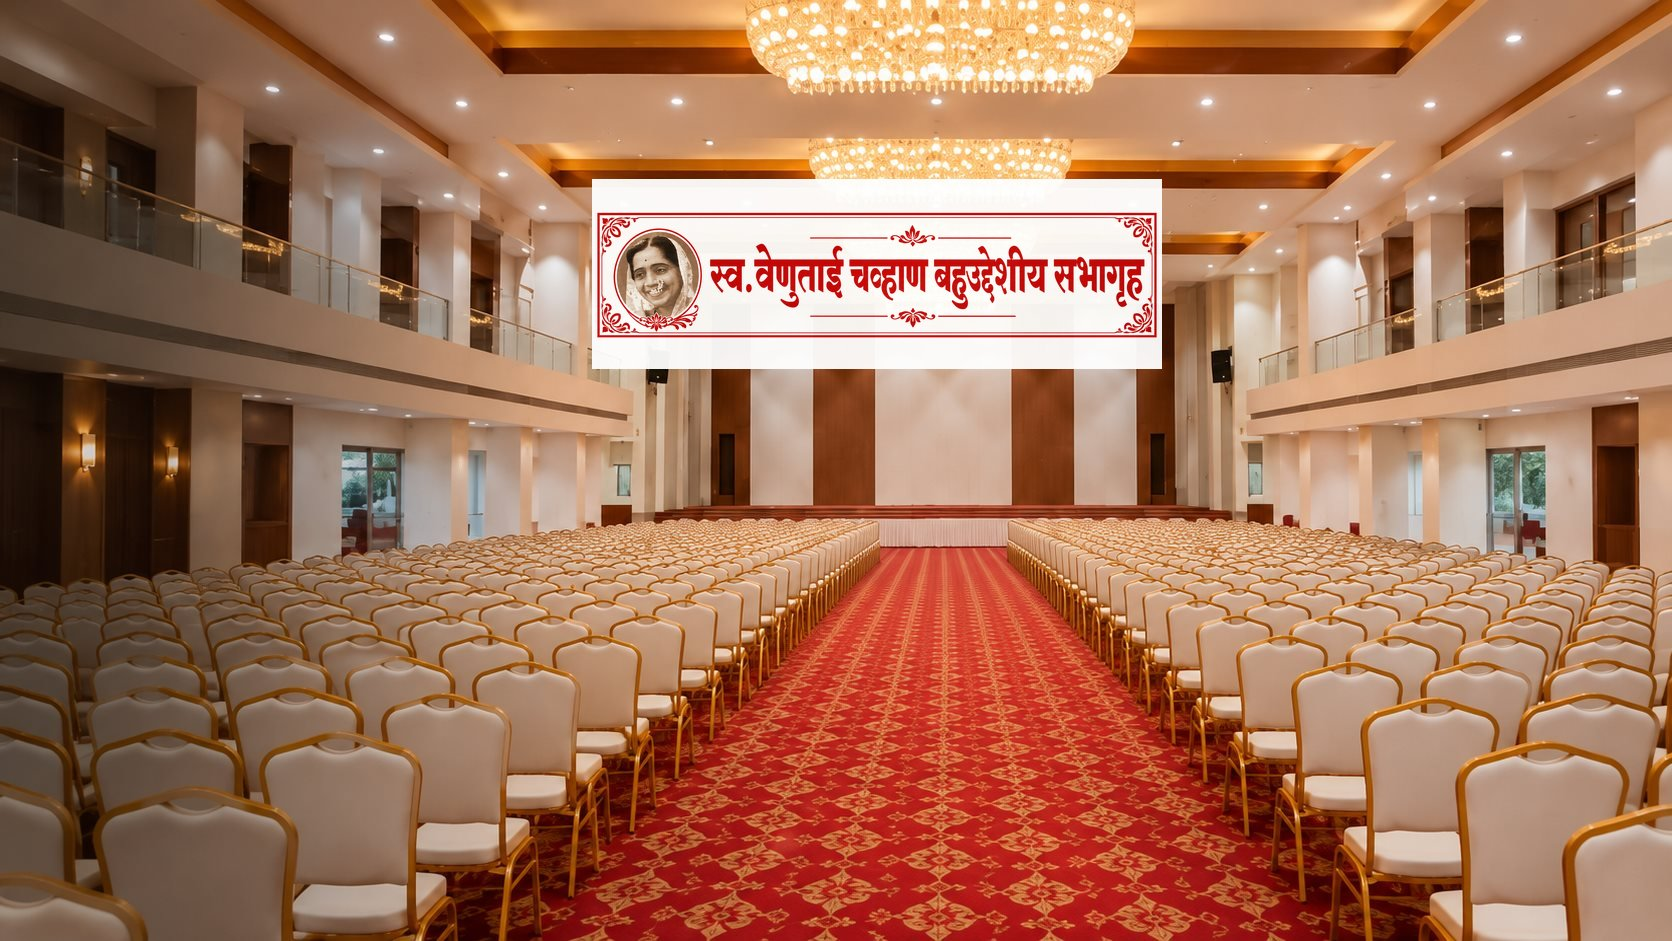
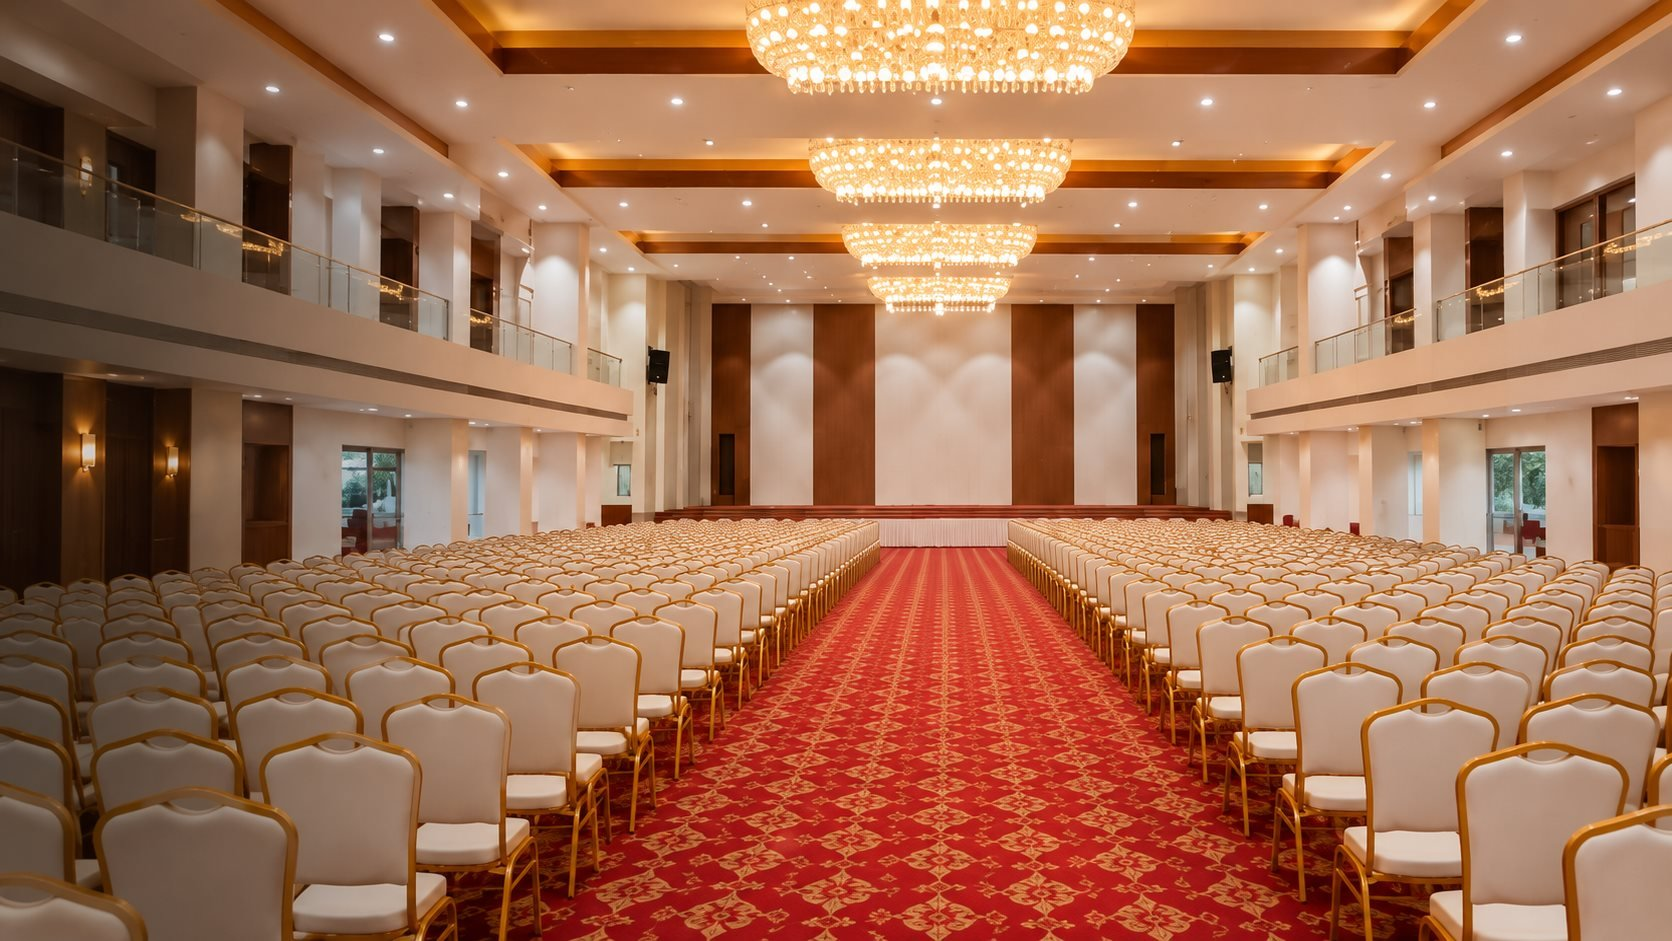
Hero overlay half size + use non-overlay original everywhere else
- hero-hall.jpg/.webp restored to the ORIGINAL (no banner overlay).
  Used by: explorer cards, celebrate cards, gallery tiles, _build.py
  pages, OG image (10 references in index.html).
- hero-hall-overlay.jpg/.webp created: original + memorial banner at
  HALF size (285x95, was 570x190). Used ONLY by the hero section.
- Hero <picture> now references hero-hall-overlay; all other hero-hall
  references keep the original non-overlay image.

Changed region(s): [[0.3421, 0.1849, 0.7153, 0.4006]]

diff --git a/index.html b/index.html
@@ -224,8 +224,8 @@
     <section class="hero" aria-label="Late Venutai Chavan Multipurpose Hall">
       <div class="hero-media">
         <picture>
-          <source srcset="assets/hero-hall.webp" type="image/webp" />
-          <img src="assets/hero-hall.jpg" alt="Main event hall with chandeliers and rows of banquet chairs" width="1672" height="941" fetchpriority="high" />
+          <source srcset="assets/hero-hall-overlay.webp" type="image/webp" />
+          <img src="assets/hero-hall-overlay.jpg" alt="Main event hall with chandeliers and rows of banquet chairs" width="1672" height="941" fetchpriority="high" />
         </picture>
       </div>
       <div class="hero-inner">
